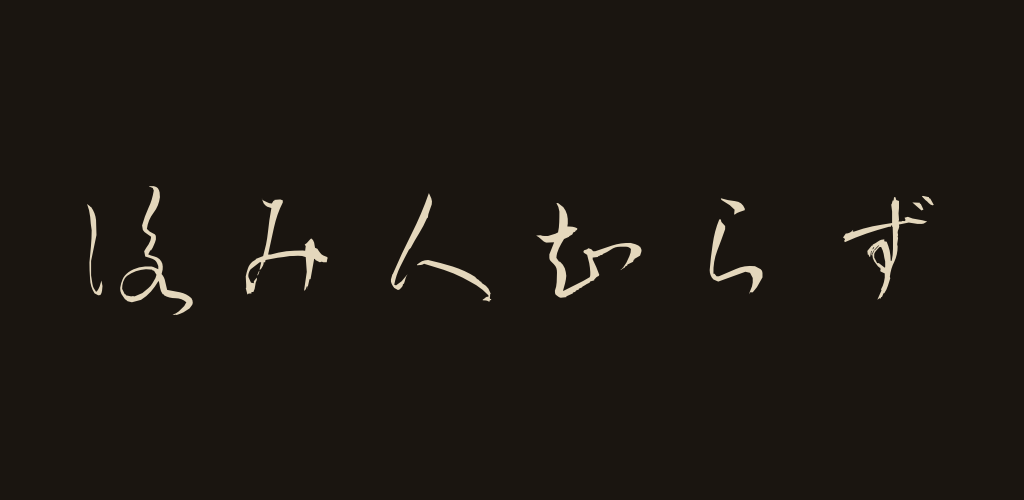
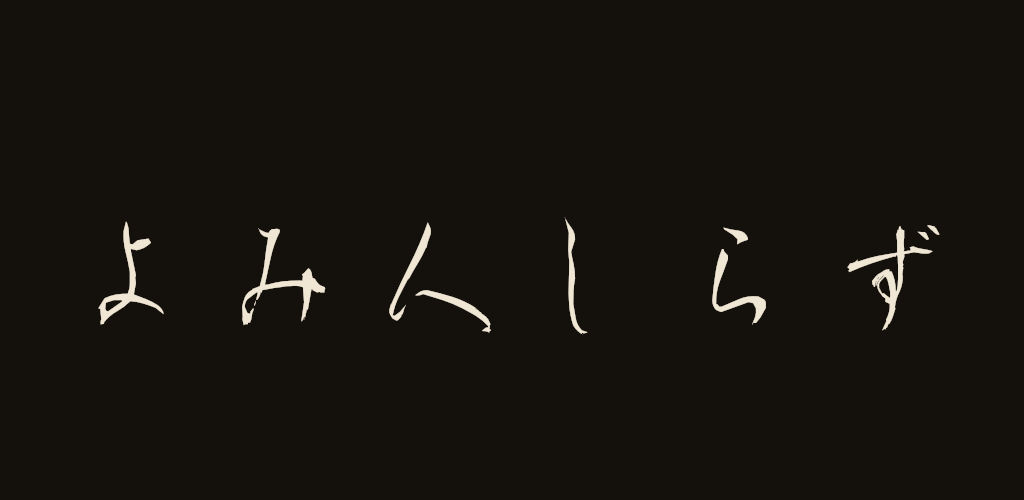
アプリ名をよみ人しらずに変更

diff --git a/scripts/generate-feature-graphic.js b/scripts/generate-feature-graphic.js
@@ -1,0 +1,56 @@
+/**
+ * Google Play Store 用のフィーチャーグラフィックを生成する。
+ *
+ * 実行:
+ *   cd scripts
+ *   node generate-feature-graphic.js
+ *
+ * 出力先: store-assets/feature.png
+ * 仕様: 1024 x 500 px, PNG（Play Store 要件 15MB 以下）
+ * 中央に衡山草書で「よみ人しらず」を配置。
+ */
+
+const { createCanvas, GlobalFonts } = require('@napi-rs/canvas');
+const path = require('path');
+const fs = require('fs');
+
+const FONT_PATH = path.resolve(__dirname, '../assets/fonts/KouzanSousho.otf');
+const OUT_PATH = path.resolve(__dirname, '../store-assets/feature.png');
+
+GlobalFonts.registerFromPath(FONT_PATH, 'KouzanSousho');
+
+const WIDTH = 1024;
+const HEIGHT = 500;
+const BG = '#14100C';       // ダークテーマ gradientBottom 相当の暗い地
+const FG = '#F0E6D4';       // アプリのダーク時テキスト色（明るい生成り）
+const TEXT = 'よみ人しらず';
+
+// テキストが横幅のこの比率以内に収まるように font-size を自動調整
+const TARGET_WIDTH_RATIO = 0.90;
+// 上下方向の中心は草書の字面が上寄りがちなのでやや下に寄せる
+const BASELINE_Y_RATIO = 0.56;
+
+const canvas = createCanvas(WIDTH, HEIGHT);
+const ctx = canvas.getContext('2d');
+
+// 背景（単色ベタ。グラデーションは feature 画像では逆にノイズになるので避ける）
+ctx.fillStyle = BG;
+ctx.fillRect(0, 0, WIDTH, HEIGHT);
+
+// 自動フィット: 指定幅に収まる最大の font-size を探す
+const targetWidth = WIDTH * TARGET_WIDTH_RATIO;
+let fontSize = 260;
+for (; fontSize > 60; fontSize -= 2) {
+  ctx.font = `${fontSize}px KouzanSousho`;
+  const metrics = ctx.measureText(TEXT);
+  if (metrics.width <= targetWidth) break;
+}
+
+ctx.fillStyle = FG;
+ctx.font = `${fontSize}px KouzanSousho`;
+ctx.textAlign = 'center';
+ctx.textBaseline = 'middle';
+ctx.fillText(TEXT, WIDTH / 2, HEIGHT * BASELINE_Y_RATIO);
+
+fs.writeFileSync(OUT_PATH, canvas.toBuffer('image/png'));
+console.log(`✓ store-assets/feature.png (${WIDTH}x${HEIGHT}) fontSize=${fontSize}`);

diff --git a/docs/index.html b/docs/index.html
@@ -3,8 +3,8 @@
 <head>
 <meta charset="UTF-8">
 <meta name="viewport" content="width=device-width, initial-scale=1.0">
-<title>詠み人知らず — サポート</title>
-<meta name="description" content="匿名で短歌を詠み合うアプリ「詠み人知らず」のサポートページ。お問い合わせ、利用規約、プライバシーポリシー、アカウント削除の手続きなど。">
+<title>よみ人しらず — サポート</title>
+<meta name="description" content="匿名で短歌を詠み合うアプリ「よみ人しらず」のサポートページ。お問い合わせ、利用規約、プライバシーポリシー、アカウント削除の手続きなど。">
 <link rel="icon" type="image/png" sizes="32x32" href="favicon-32.png">
 <link rel="icon" type="image/png" sizes="512x512" href="favicon-512.png">
 <link rel="apple-touch-icon" sizes="180x180" href="favicon-180.png">
@@ -137,11 +137,11 @@
 </head>
 <body>
   <div class="card">
-    <h1>詠み人知らず</h1>
+    <h1>よみ人しらず</h1>
     <p class="tagline">名を伏せて、短歌を詠み合う</p>
 
     <p>
-      「詠み人知らず」は、匿名の歌会で短歌を詠み合うためのアプリです。
+      「よみ人しらず」は、匿名の歌会で短歌を詠み合うためのアプリです。
       このページでは、アプリに関する情報・お問い合わせ先・各種手続きをまとめてご案内します。
     </p>
 
@@ -187,7 +187,7 @@
       <dt>歌を画像として保存・共有したい</dt>
       <dd>
         歌の詳細画面で、縦書きで表示されている歌そのものをタップするとプレビュー画面に進みます。そこから端末のギャラリーに保存できます。
-        解題済みの歌は作者名入り、そうでない歌は「詠み人知らず」として出力されます。
+        解題済みの歌は作者名入り、そうでない歌は「よみ人しらず」として出力されます。
       </dd>
 
       <dt>ふさわしくない投稿・利用者を見つけたら？</dt>

diff --git a/docs/delete-account.html b/docs/delete-account.html
@@ -3,7 +3,7 @@
 <head>
 <meta charset="UTF-8">
 <meta name="viewport" content="width=device-width, initial-scale=1.0">
-<title>アカウント削除 — 詠み人知らず</title>
+<title>アカウント削除 — よみ人しらず</title>
 <link rel="icon" type="image/png" sizes="32x32" href="favicon-32.png">
 <link rel="icon" type="image/png" sizes="512x512" href="favicon-512.png">
 <link rel="apple-touch-icon" sizes="180x180" href="favicon-180.png">
@@ -145,10 +145,10 @@
 <body>
 <div class="card">
   <h1>アカウント削除とデータ消去</h1>
-  <div class="app-name">詠み人知らず — アカウント削除</div>
+  <div class="app-name">よみ人しらず — アカウント削除</div>
 
   <p>
-    このページでは、モバイルアプリ「<strong>詠み人知らず</strong>」のアカウントと、それに紐づくすべてのデータを削除できます。
+    このページでは、モバイルアプリ「<strong>よみ人しらず</strong>」のアカウントと、それに紐づくすべてのデータを削除できます。
   </p>
 
   <h2>削除されるデータ</h2>
@@ -213,7 +213,7 @@
   </div>
 
   <div class="footer">
-    詠み人知らず<br>
+    よみ人しらず<br>
     お問い合わせ: <a href="mailto:tenderloin.games@gmail.com">tenderloin.games@gmail.com</a>
   </div>
 </div>

diff --git a/docs/terms-of-service.html b/docs/terms-of-service.html
@@ -3,7 +3,7 @@
 <head>
 <meta charset="UTF-8">
 <meta name="viewport" content="width=device-width, initial-scale=1.0">
-<title>利用規約 — 詠み人知らず</title>
+<title>利用規約 — よみ人しらず</title>
 <link rel="icon" type="image/png" sizes="32x32" href="favicon-32.png">
 <link rel="icon" type="image/png" sizes="512x512" href="favicon-512.png">
 <link rel="apple-touch-icon" sizes="180x180" href="favicon-180.png">
@@ -121,7 +121,7 @@
     <h1>利用規約</h1>
     <p class="updated">最終更新日: 2026年4月17日</p>
 
-    <p>本利用規約（以下「本規約」）は、「詠み人知らず」（以下「本アプリ」）の利用に関する条件を定めるものです。本アプリを利用することにより、本規約に同意したものとみなします。</p>
+    <p>本利用規約（以下「本規約」）は、「よみ人しらず」（以下「本アプリ」）の利用に関する条件を定めるものです。本アプリを利用することにより、本規約に同意したものとみなします。</p>
 
     <div class="no-tolerance">
       <strong>本アプリは、不適切なコンテンツおよび悪質なユーザーに対して一切の寛容を示しません。</strong>

diff --git a/docs/privacy-policy.html b/docs/privacy-policy.html
@@ -3,7 +3,7 @@
 <head>
 <meta charset="UTF-8">
 <meta name="viewport" content="width=device-width, initial-scale=1.0">
-<title>プライバシーポリシー — 詠み人知らず</title>
+<title>プライバシーポリシー — よみ人しらず</title>
 <link rel="icon" type="image/png" sizes="32x32" href="favicon-32.png">
 <link rel="icon" type="image/png" sizes="512x512" href="favicon-512.png">
 <link rel="apple-touch-icon" sizes="180x180" href="favicon-180.png">
@@ -123,7 +123,7 @@
     <h1>プライバシーポリシー</h1>
     <p class="updated">最終更新日: 2026年4月19日</p>
 
-    <p>「詠み人知らず」（以下「本アプリ」）は、ユーザーのプライバシーを尊重し、個人情報の保護に努めます。本ポリシーでは、本アプリが収集・利用する情報、利用目的、ユーザーの権利について説明します。</p>
+    <p>「よみ人しらず」（以下「本アプリ」）は、ユーザーのプライバシーを尊重し、個人情報の保護に努めます。本ポリシーでは、本アプリが収集・利用する情報、利用目的、ユーザーの権利について説明します。</p>
 
     <h2>事業者情報</h2>
     <ul>

diff --git a/src/screens/TankaDetailScreen.tsx b/src/screens/TankaDetailScreen.tsx
@@ -841,7 +841,7 @@ export default function TankaDetailScreen({ route, navigation }: any) {
       } else if (data.action === 'rendered') {
         markAsRendered();
       } else if (data.action === 'screenshot') {
-        navigation.navigate('Screenshot', { body: displayBody, revealedAuthorName: post?.revealedAuthorName || '詠み人知らず' });
+        navigation.navigate('Screenshot', { body: displayBody, revealedAuthorName: post?.revealedAuthorName || 'よみ人しらず' });
       } else if (data.action === 'commentMenu') {
         openCommentMenu(data.commentId);
       } else if (data.action === 'postMenu') {

diff --git a/src/screens/LoginScreen.tsx b/src/screens/LoginScreen.tsx
@@ -48,7 +48,7 @@ export default function LoginScreen() {
 
   return (
     <GradientBackground style={dynamicStyles.container}>
-      <Text style={dynamicStyles.title}>詠み人知らず</Text>
+      <Text style={dynamicStyles.title}>よみ人しらず</Text>
 
       <View style={dynamicStyles.agreement}>
         <AppText variant="caption" tone="tertiary" style={dynamicStyles.agreementText}>

diff --git a/app.config.ts b/app.config.ts
@@ -2,7 +2,7 @@ import "dotenv/config";
 
 export default {
   expo: {
-    name: "詠み人知らず",
+    name: "よみ人しらず",
     slug: "yomibito-shirazu",
     version: "1.0.0",
     orientation: "portrait",

diff --git a/README.md b/README.md
@@ -1,8 +1,8 @@
-# 詠み人知らず
+# よみ人しらず
 
 名を伏せて短歌を詠み合うモバイルアプリ。
 
-歌会（グループ）を作り、招待コードで仲間を集め、匿名で短歌を投稿し合います。誰が詠んだかは分かりません。寄せられた評もまた、詠み人知らず。
+歌会（グループ）を作り、招待コードで仲間を集め、匿名で短歌を投稿し合います。誰が詠んだかは分かりません。寄せられた評もまた、よみ人しらず。
 
 ## 技術スタック
 

diff --git a/scripts/README.md b/scripts/README.md
@@ -1,6 +1,6 @@
 # 運営用 監視スクリプト
 
-詠み人知らず の Firestore データをローカルから監視するための CLI。
+よみ人しらず の Firestore データをローカルから監視するための CLI。
 Firebase Admin SDK を使用して読み取るため、アプリのセキュリティルールを経由せず全件アクセスできる。**運営者のみが使用する前提**。
 
 ## セットアップ
